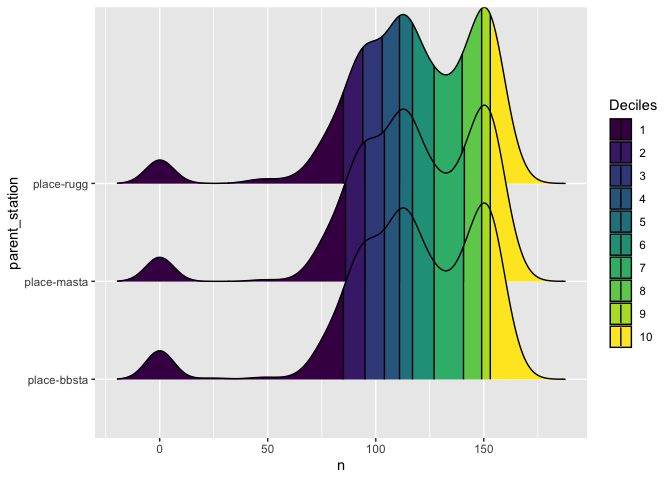
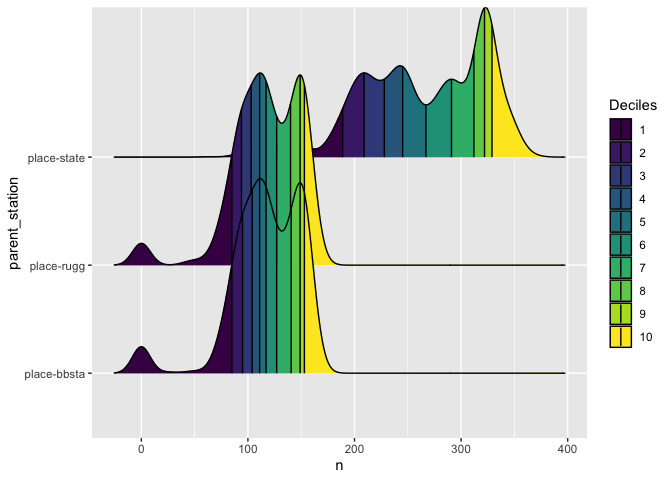
plots--add state stn, add weekend facets

diff --git a/GreenLineUnionSquare.md b/GreenLineUnionSquare.md
@@ -303,7 +303,7 @@ execution_time_ds <- system.time({
 print(paste("Total execution time:", execution_time_ds["elapsed"], "seconds"))
 ```
 
-    [1] "Total execution time: 36.752 seconds"
+    [1] "Total execution time: 83.134 seconds"
 
 ``` r
 # note missing stations:
@@ -320,7 +320,7 @@ print(paste("Total execution time:", execution_time_ds["elapsed"], "seconds"))
 # plot some stations on the Orange Line
 library(ggridges)
 lamp_stations_summary |>
-  filter(parent_station %in% c("place-rugg","place-masta","place-bbsta") &
+  filter(parent_station %in% c("place-rugg","place-bbsta","place-state") &
            direction_id == T) |>
   ggplot(aes(x = n, y = parent_station, fill = factor(after_stat(quantile)))) +
     stat_density_ridges(geom = "density_ridges_gradient", quantiles = 10,
@@ -328,7 +328,7 @@ lamp_stations_summary |>
     scale_fill_viridis_d(name = "Deciles")
 ```
 
-    Picking joint bandwidth of 6.53
+    Picking joint bandwidth of 8.45
 
 ![](GreenLineUnionSquare_files/figure-commonmark/shutdown-detection-1.png)
 
@@ -345,6 +345,26 @@ lamp_stations_summary_shutdown <- lamp_stations_summary |>
 # for each stop
 # mutate(weekend = wday(service_date) %in% c(1, 7))
 ```
+
+``` r
+lamp_stations_summary |>
+  mutate(weekend = wday(service_date) %in% c(1, 7)) |>
+  filter(parent_station %in% c("place-rugg","place-masta","place-bbsta") &
+           direction_id == T) |>
+  ggplot(aes(x = n, y = parent_station, fill = factor(after_stat(quantile)))) +
+    stat_density_ridges(geom = "density_ridges_gradient", quantiles = 10,
+                        quantile_lines = T, calc_ecdf = T) +
+    scale_fill_viridis_d(name = "Deciles") +
+  facet_wrap(vars(weekend), labeller = "label_both")
+```
+
+    Picking joint bandwidth of 5.87
+
+    Picking joint bandwidth of 4.51
+
+<img
+src="GreenLineUnionSquare_files/figure-commonmark/fig-orange-distributions-weekend-1.png"
+id="fig-orange-distributions-weekend" />
 
 ``` r
 # Union Square example
